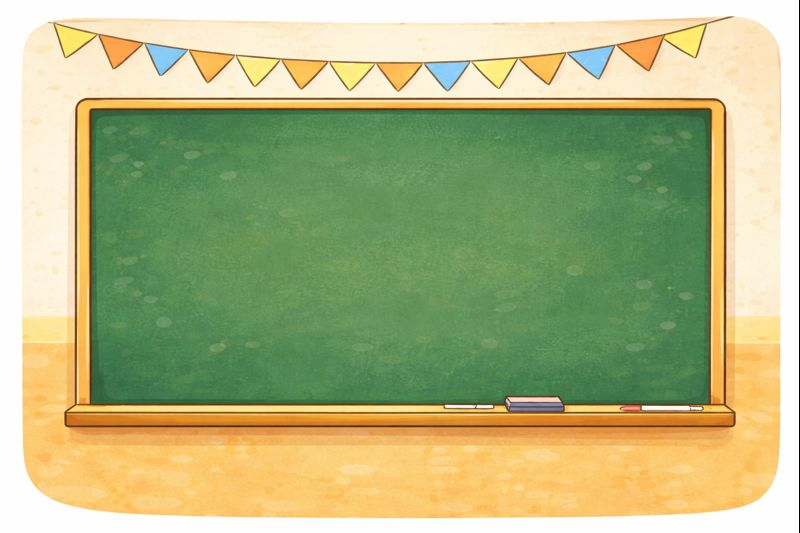
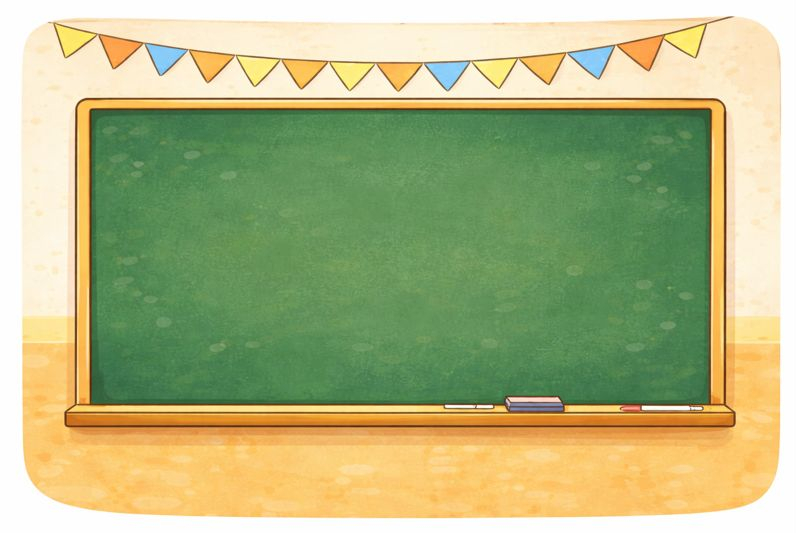
Fix: Plus Overview screen size adjusted

diff --git a/school/downstairs/classroomsDownstairs/math/Plus/plusaufgabenauswahl.html b/school/downstairs/classroomsDownstairs/math/Plus/plusaufgabenauswahl.html
@@ -13,6 +13,14 @@
         width: 100vw;
         overflow: hidden;
       }
+
+      .container {
+        max-width: 1400px;
+        position: relative;
+        margin: 0 auto;
+        aspect-ratio: 3 / 2;
+      }
+
       img {
         position: absolute;
         top: 0;
@@ -36,12 +44,16 @@
         z-index: 1000;
       }
 
+      #backBtn:hover {
+        transform: scale(1.1);
+      }
+
       #plusBis10,
       #plusBis20 {
         border: dashed white 3px;
         border-radius: 12px;
         position: absolute;
-        left: 35vw;
+        left: 23vw;
         width: 30vw;
         height: 10vh;
         padding: 2vh 4vw;
@@ -50,6 +62,7 @@
         color: white;
         cursor: pointer;
       }
+
       #plusBis10 {
         top: 35vh;
       }
@@ -60,9 +73,11 @@
     </style>
   </head>
   <body>
-    <button id="backBtn">← Zurück</button>
-    <img src="../../../../../pictures/Tafel.jpeg" alt="" />
-    <button id="plusBis10">Plus bis 10</button>
-    <button id="plusBis20">Plus bis 20</button>
+    <div class="container">
+      <button id="backBtn">← Zurück</button>
+      <img src="../../../../../pictures/Tafel.jpeg" alt="" />
+      <button id="plusBis10">Plus bis 10</button>
+      <button id="plusBis20">Plus bis 20</button>
+    </div>
   </body>
 </html>